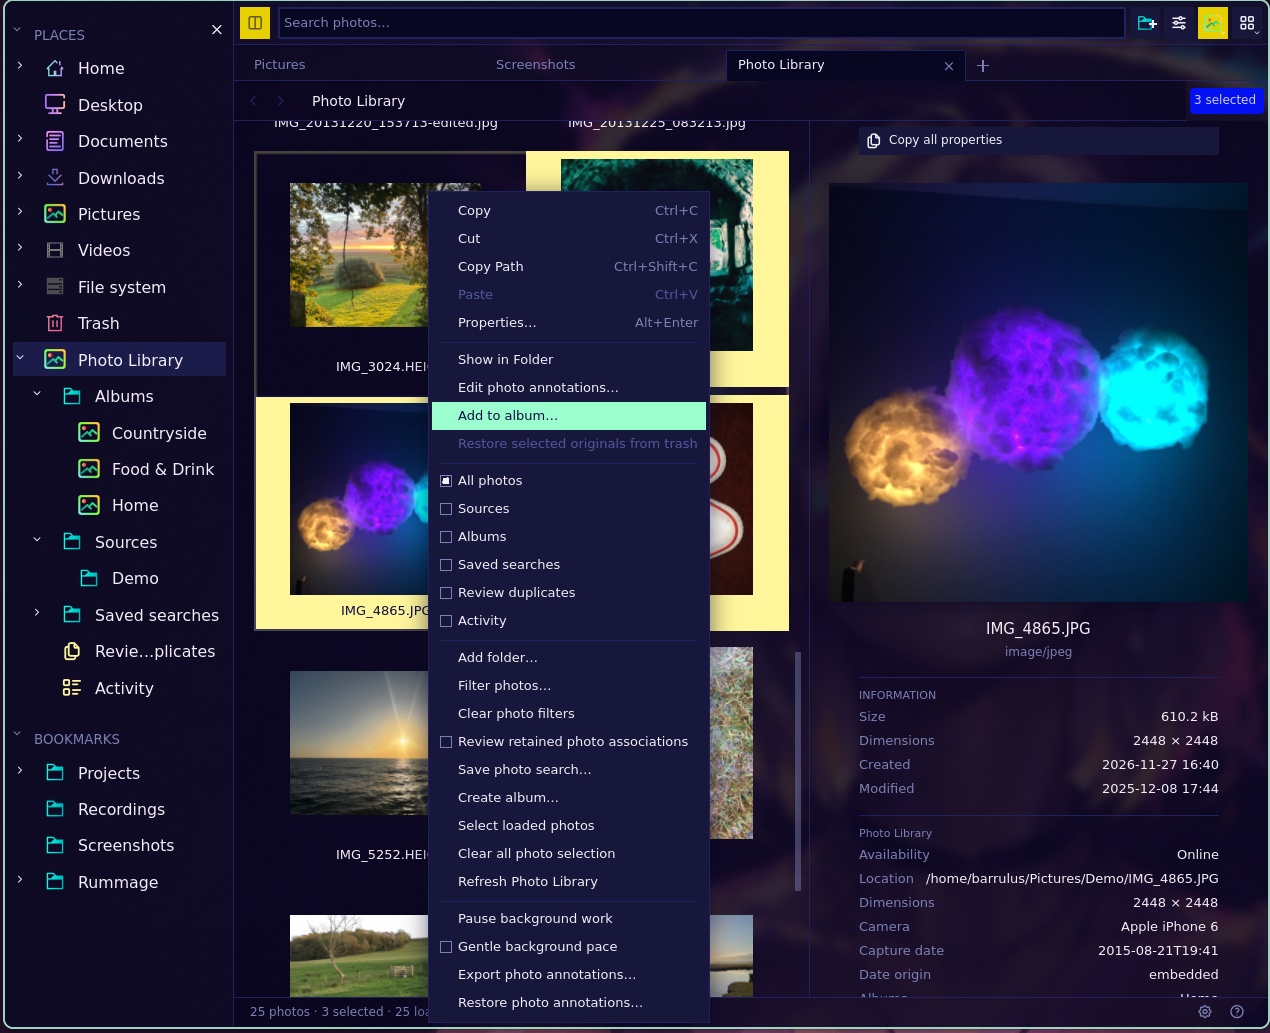
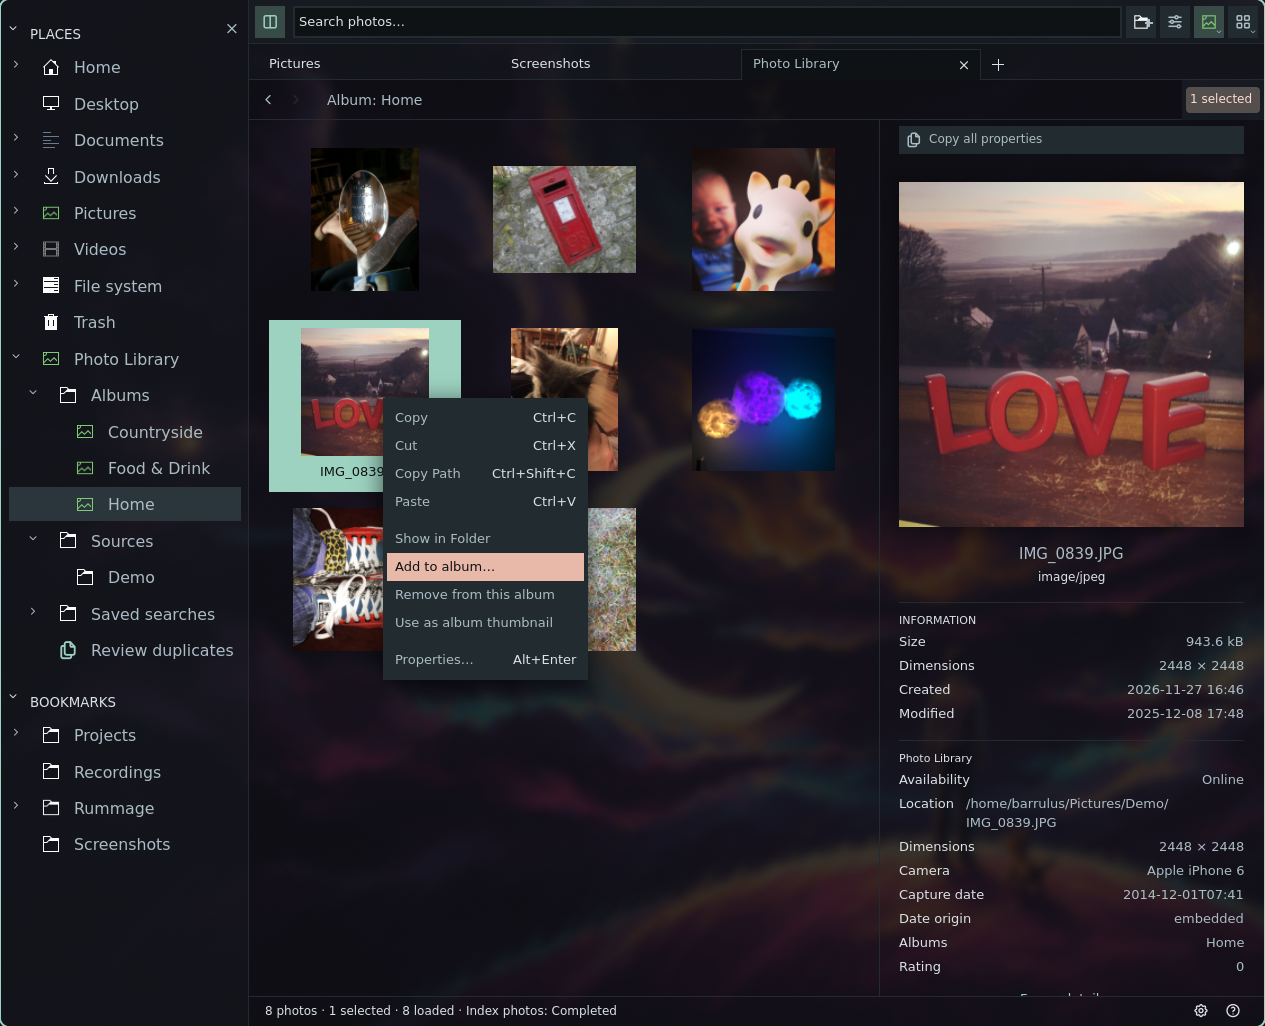
Refresh photo library screenshots with current album controls

diff --git a/website/README.md b/website/README.md
@@ -76,14 +76,13 @@ assets; the original `guide-*`, `shot-*`, and `readme-*` screenshots have been
 retired rather than retained in the deployed image directory.
 
 The Photo Library screenshot collection contains six supplied 27 November 2026 captures:
-the library grid, Quick Look, an open album, photo details, the source folder picker,
-and the Add to album action. Their `photo-*` manifest entries record the capture
-date and custom dark appearance. They use the same lossless, original-size WebP
-conversion and decoded-pixel verification as the earlier collection. The 19:31:22
-details capture replaces the clipped 19:26:34 take; the latter is listed as unused.
-The homepage links to the illustrated guide and the optional add-on installation steps.
-The guide currently uses five captures: the older Add to album screenshot is retained in
-the collection but omitted from the guide following the context-menu simplification.
+the library grid, Quick Look, the album cover grid, photo details, the source folder picker,
+and the compact Add to album context menu. Five captures were refreshed from the 22:51–22:52
+session; the source folder picker retains its earlier capture. Their `photo-*` manifest entries
+record the capture date and custom dark appearance. They use the same lossless, original-size
+WebP conversion and decoded-pixel verification as the earlier collection. Superseded source
+filenames are listed as unused. All six captures appear in the guide; the homepage uses the
+updated library grid and links to the guide and optional add-on installation steps.
 
 The `/pricing/` page presents three humorous free tiers, all linking to the same
 downloads. Keep their feature lists identical and the MIT licence and development

diff --git a/docs/photo-library.md b/docs/photo-library.md
@@ -164,6 +164,8 @@ searchable album list, or **Create new album…** to make one from the same sele
 the chooser leaves your photos and album memberships unchanged. This action is also in the
 Photo Library toolbar menu’s **Selection** submenu.
 
+![The compact photo context menu with Add to album highlighted in the Home album](images/rummage-photo-add-to-album.webp)
+
 Use **Create album…** in the Photo Library menu to create an album containing
 that selection. The dialog shows how many photos will be included; with no selection it creates
 an empty album. Open **Albums** and choose the album to see its photos. The breadcrumb names the
@@ -171,9 +173,9 @@ album. Click **Photo Library** in the sidebar, or use Back or Parent to
 return to the full active library. An album’s context
 menu offers **Add selected photos to album** and **Remove selected photos from album**.
 
-![The Home album showing eight photos in the Photo Library grid](images/rummage-photo-album.webp)
+![Albums view showing Countryside, Food & Drink and Home with photo covers](images/rummage-photo-album.webp)
 
-*An album opens in the same browser as the full library.*
+*Browse albums by their photo covers, then open one in the same browser as the full library.*
 
 The sidebar's **Albums** group also offers **Create album…** on right-click. If a previous
 selection includes photos whose source data has since been forgotten, creation removes those
